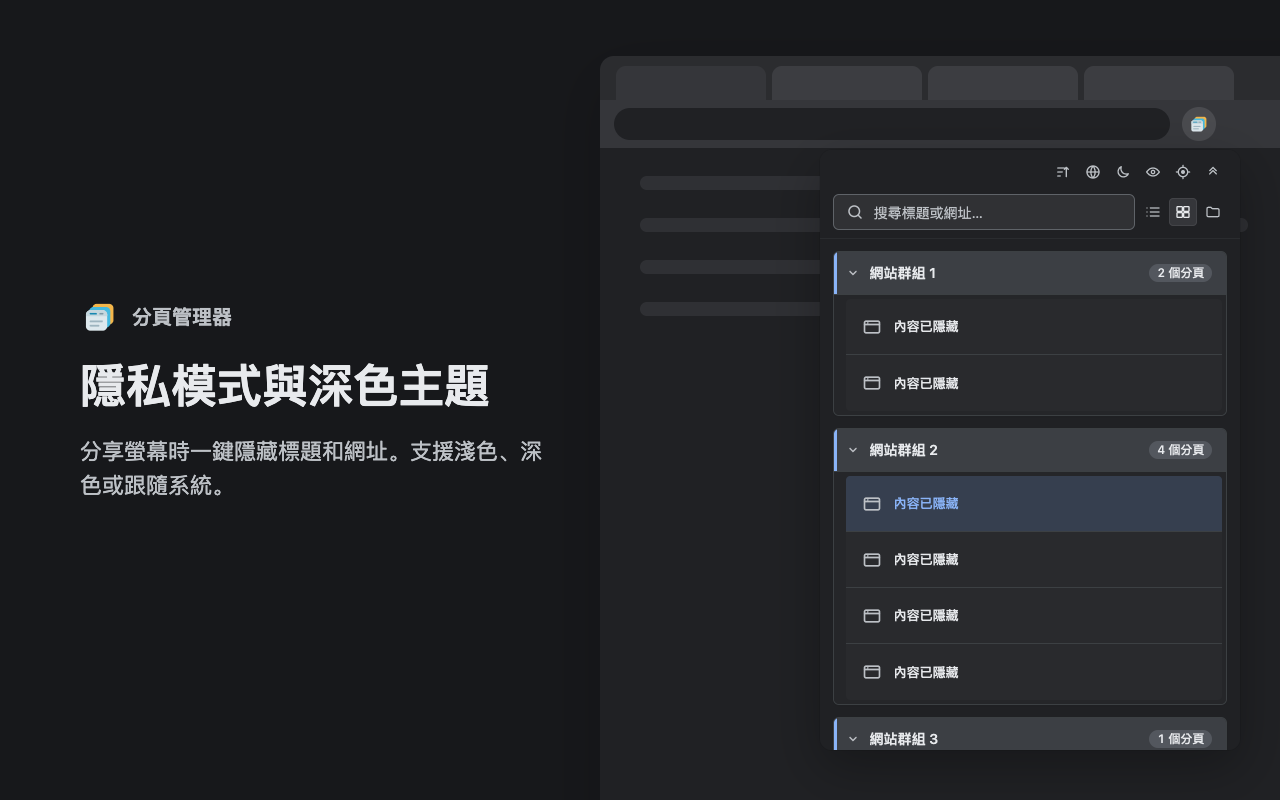
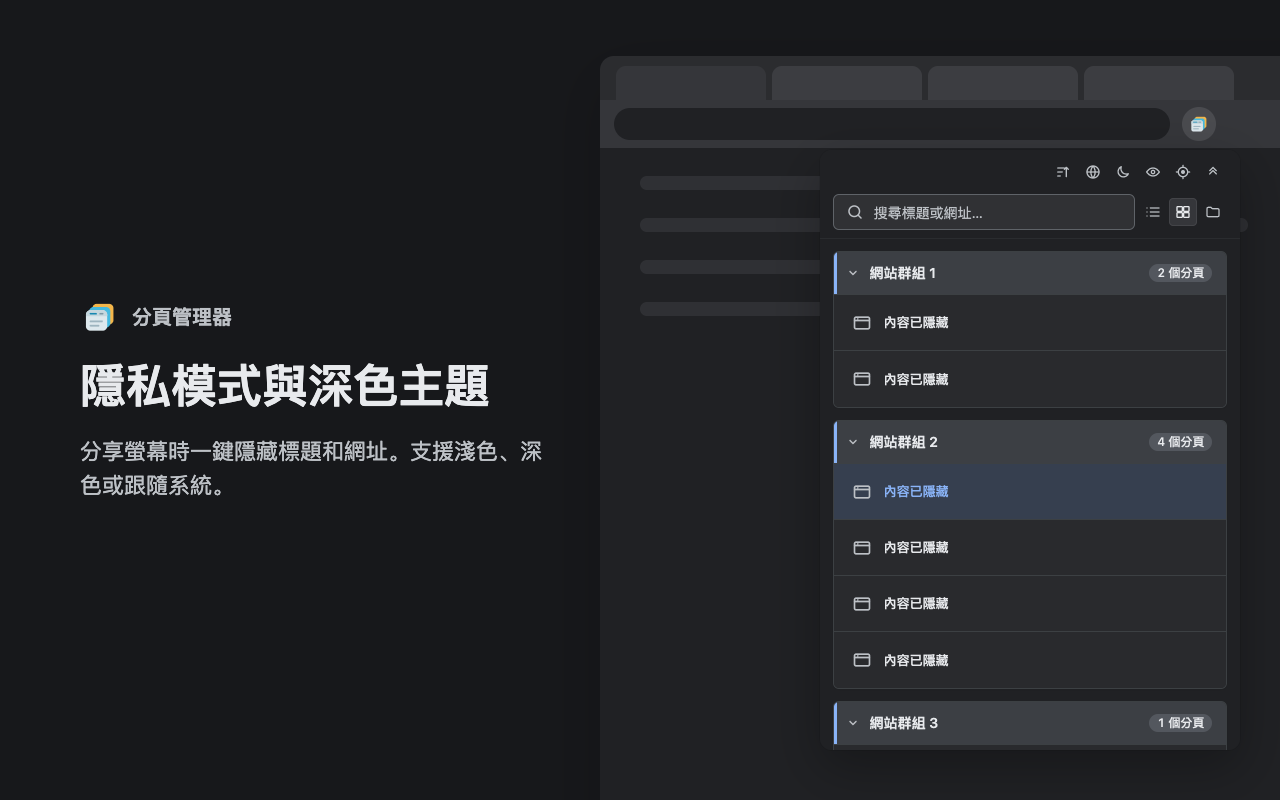
style: run tab rows edge to edge inside group cards
Drop the 8px left indent on .tab-list and the 4px side margins on
.tab-row so row backgrounds (hover, active tab) and the dividers span the
full card width. The card's overflow: hidden clips the last row to its
rounded corners, so the per-row corner radii are gone. Regenerate the
store screenshots and promo images for all three locales.

diff --git a/src/App.i18n.test.tsx b/src/App.i18n.test.tsx
@@ -751,7 +751,18 @@ describe('compact progressive sticky toolbar CSS contract', () => {
     const count = declarationsFor('.window-toggle>span:last-child')
     expect(count.get('color')).toBe('var(--color-text)')
     expect(count.get('background')).toBe('var(--color-group-count)')
-    expect(declarationsFor('.tab-list').get('padding')).toBe('4px 0 4px 8px')
+    expect(declarationsFor('.tab-list').get('padding')).toBe('0')
+  })
+
+  it('runs tab rows edge to edge across the group card', () => {
+    expect(declarationsFor('.window-group').get('overflow')).toBe('hidden')
+    const row = declarationsFor('.tab-row')
+    expect(row.get('margin')).toBe('0')
+    expect(row.get('padding')).toBe('2px 8px 2px 10px')
+    expect(row.get('border-bottom')).toBe('1px solid var(--color-border-subtle)')
+    expect(declarationsFor('.tab-row:last-child').get('border-bottom')).toBe('0')
+    expect(declarationsFor('.tab-row:last-child').has('border-bottom-left-radius')).toBe(false)
+    expect(cssRules.some((rule) => rule.selector === '.tab-row:first-child')).toBe(false)
   })
 
   it('scopes compact background-free row actions without changing generic icon buttons', () => {

diff --git a/src/styles.css b/src/styles.css
@@ -508,10 +508,11 @@ main {
   white-space: nowrap;
 }
 
-/* Tabs sit indented under their group header. */
+/* Tab rows run edge to edge across the group card; the card's
+   overflow: hidden clips the last row to its rounded corners. */
 .tab-list {
   margin: 0;
-  padding: 4px 0 4px 8px;
+  padding: 0;
   list-style: none;
   background: color-mix(in srgb, var(--color-bg) 42%, var(--color-surface));
 }
@@ -523,22 +524,15 @@ main {
   align-items: center;
   min-width: 0;
   min-height: 56px;
-  margin: 0 4px;
-  padding: 2px 4px 2px 8px;
+  margin: 0;
+  padding: 2px 8px 2px 10px;
   background: var(--color-surface);
   border-bottom: 1px solid var(--color-border-subtle);
   transition: background-color var(--motion-fast) var(--ease);
 }
 
-.tab-row:first-child {
-  border-top-left-radius: var(--radius-sm);
-  border-top-right-radius: var(--radius-sm);
-}
-
 .tab-row:last-child {
   border-bottom: 0;
-  border-bottom-right-radius: var(--radius-sm);
-  border-bottom-left-radius: var(--radius-sm);
 }
 
 .tab-row:hover {
